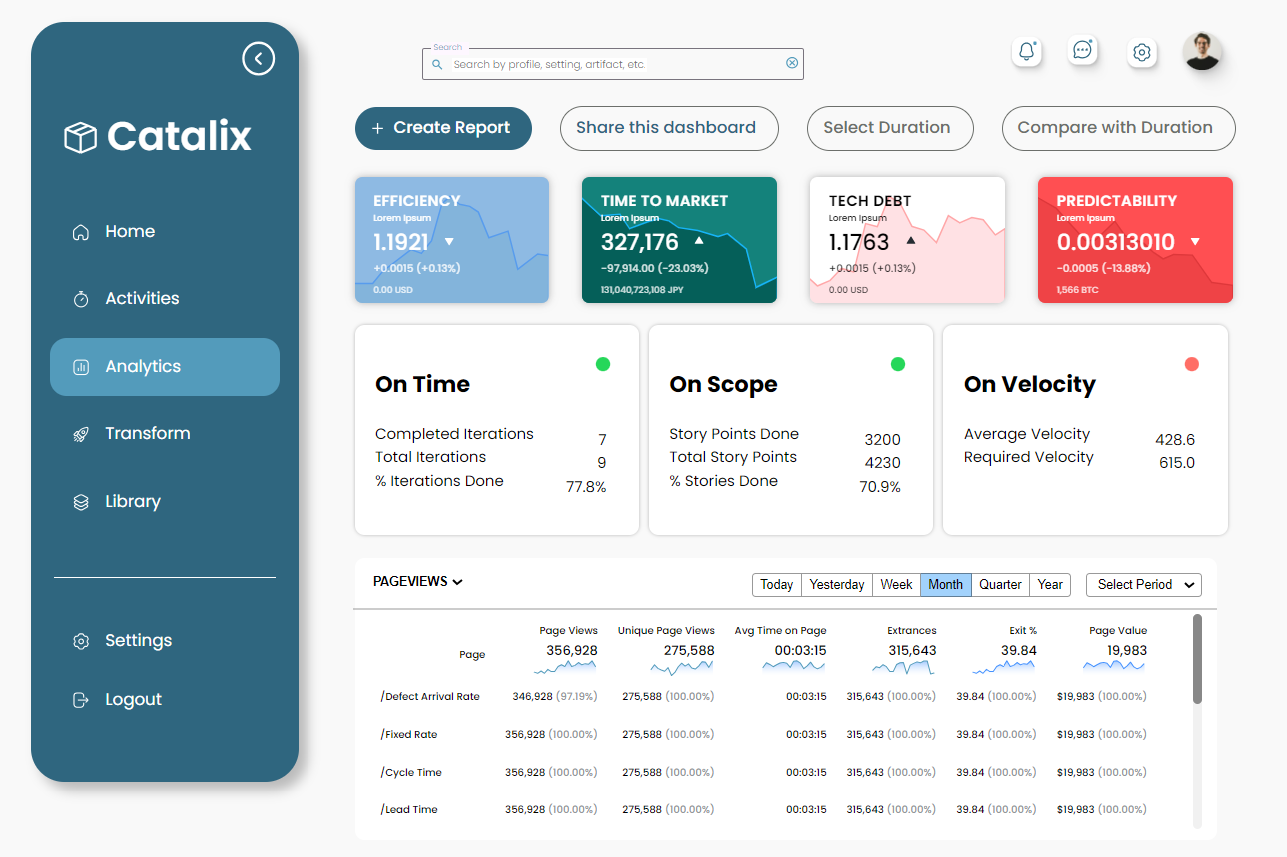
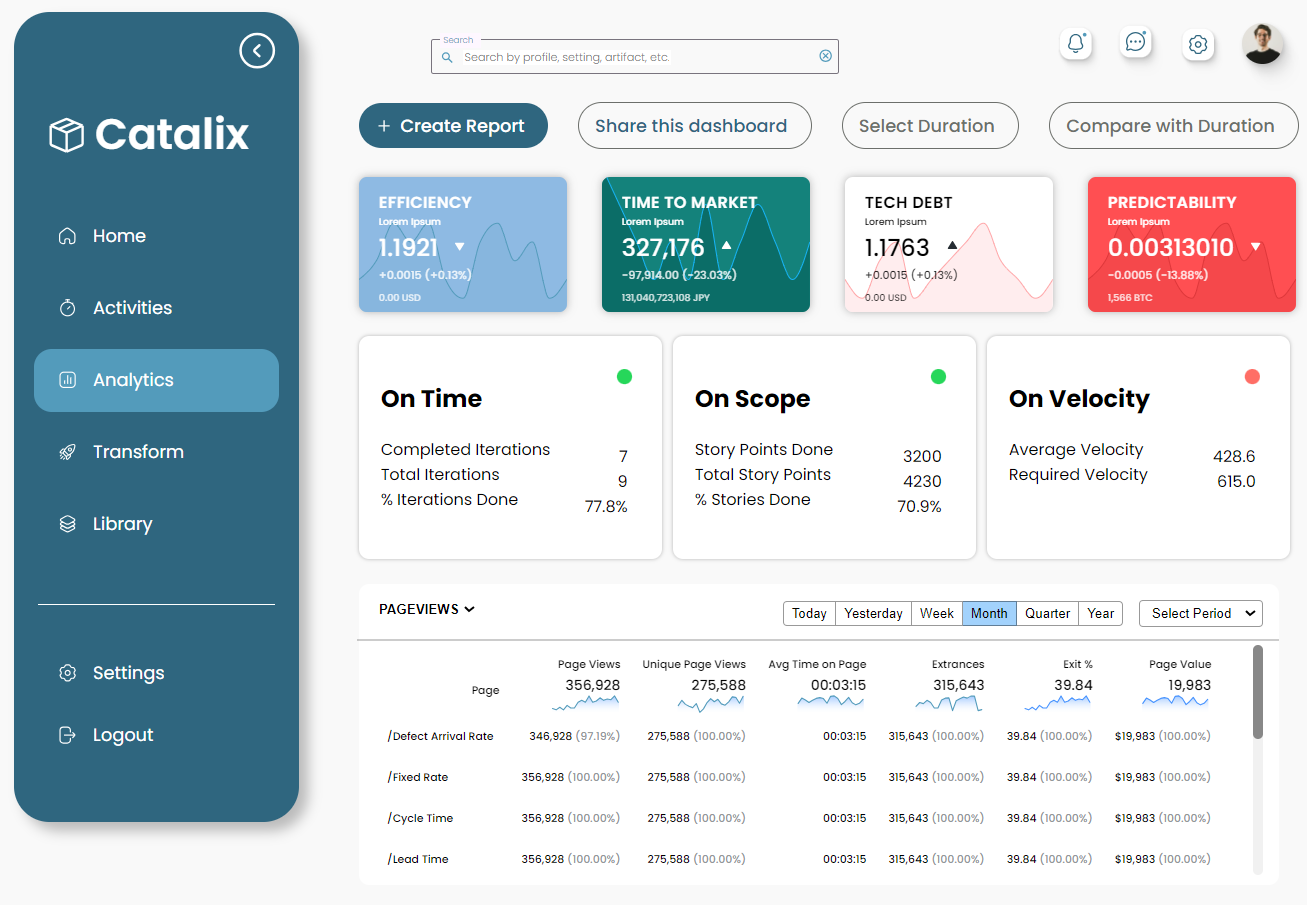
Added dynamic charts and routes

diff --git a/Catalix/src/components/topStats.components.jsx b/Catalix/src/components/topStats.components.jsx
@@ -9,7 +9,6 @@ import upBlack from "../assets/upBlack.svg"
 import down from "../assets/falling.svg"
 
 import data from "../data/chart1.json"
-import data1 from "../data/chart2.json"
 import data2 from "../data/chart3.json"
 import data3 from "../data/chart4.json"
 
@@ -36,7 +35,7 @@ const TopStats = () => {
             
             <TopStatsCard 
                 // path={path2}
-                data={data1}
+                data={data3}
                 title="time to market"
                 subTitle="Lorem Ipsum"
                 figure="327,176"
@@ -69,7 +68,7 @@ const TopStats = () => {
             
             <TopStatsCard 
                 //  path={path4}
-                data={data3}
+                data={data}
                  title="predictability"
                  subTitle="Lorem Ipsum"
                  figure="0.00313010"

diff --git a/Catalix/src/pages/statistics.jsx b/Catalix/src/pages/statistics.jsx
@@ -42,7 +42,7 @@ const Statistics = ({ data }) => {
               tickLine={false}
               tickFormatter={(str) => {
                 const date = parseISO(str);
-                if (date.getDate() % 7 === 0) {
+                if (date.getDate() % 3 === 0) {
                   return format(date, "MMM, d");
                 }
                 return "";

diff --git a/Catalix/README.md b/Catalix/README.md
@@ -1,6 +1,7 @@
 This project implements a user interface based on a Figma design using ReactJS and Vanilla CSS.
 
 ![Image description](./Screenshot%202024-04-07%20005151.png)
+![Image description](./Screenshot%202024-04-11%20012342.png)
 
 
 Project Setup:
